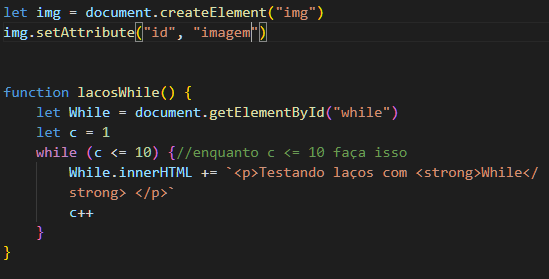
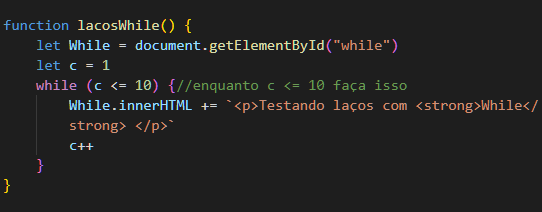
js

diff --git a/js-curso-em-video/javascript-inicial/praticando/estrutura_de_repetição/ex01while-for/while_for.html b/js-curso-em-video/javascript-inicial/praticando/estrutura_de_repetição/ex01while-for/while_for.html
@@ -9,61 +9,64 @@
 </head>
 <body>
     <header>
-        <h1>While, do while e for</h1>
+        <h1>while, do while e for</h1>
     </header>
     <section>
         <div id="while">
-            Laço de repetição com while
-            <input type="button" value="Iniciar" onclick="lacosWhile()">
-            <img src="imagem/while.PNG" alt="Imagem Laços While">
+            <p>
+                Laço de repetição com while <br>
+                <input type="text" name="txt1" id="txt1" placeholder="Dídite aqui o quer que repita"><br>
+                <input type="number" name="num1" id="num1"> <br><br> 
+                <input type="button" value="Iniciar" onclick="lacosWhile()">
+            </p>
         </div>
-        <div>
-            
-        </div>
+       
     </section>
     <br>
     <section>
         <div id="dowhile">
-            Laço de repetição com do while
-            <input type="button" value="Iniciar2" onclick="lacosDoWhile()">  
-            <div id="imagem">
-               <img src="" alt="Imagem do While">
-            </div>
+            <p>
+                Laço de repetição com do while
+                <input type="number" name="num2" id="num2">
+                <input type="button" value="Iniciar2" onclick="lacosDoWhile()">
+            </p>
         </div>
     </section>
     <br>
     <section>
         <div id="for">
-            Laço de repetição com for
-            <input type="button" value="Iniciar" onclick="lacosFor()">
+            <p>
+                Laço de repetição com for
+                <input type="number" name="num3" id="num3">
+                <input type="button" value="Iniciar" onclick="lacosFor()">
+            </p>
         </div>    
     </section>
     <br>
         <section>
-            <p>Escolha um laço de repetição e clique no botão iniciar corespondente</p>
+            Escolha um laço de repetição e clique no botão iniciar corespondente
         </section>
-        <section>
-            <div id="imagens">
-                <p>
-                    Código com <strong>while</strong> <br><br>
-                    <img src="imagem/while.PNG" alt="Laços com while">
+        <br>
+        <section >
+            <div id="res">
+                <h3>Veja o código aqui</h3>
+                <p >
+                    Código com <strong>while</strong> 
+                    <button onclick="imgWhile()">Ver código</button>  <br><br>
                 </p>
-                
-
+            </div>    
+            <div id="res2">
                 <p>
-                    Código com <strong>do while</strong> <br><br>
-                    <img src="imagem/do_while.PNG" alt="Laços com do while">
+                    Código com <strong>do while</strong>
+                    <button onclick="imgDoWhile()">Ver código </button> <br><br>
                 </p>
-                
+            </div>
+            <div id="res3">
                 <p>
                     Código com <strong>for</strong> 
-                    <br><br>
-                    <img src="imagem/for.PNG" alt="Laços com for">
+                    <button onclick="imgFor()">Ver código</button> <br><br>
                 </p>
-                
-
-                <button onclick="imagens()">Ver imagens</button>
-            </div>
+            </div>            
         </section>
     
     <footer>

diff --git a/js-curso-em-video/javascript-inicial/praticando/estrutura_de_repetição/ex01while-for/laços.js b/js-curso-em-video/javascript-inicial/praticando/estrutura_de_repetição/ex01while-for/laços.js
@@ -1,37 +1,64 @@
 
-let img = document.createElement("img")
-img.setAttribute("id", "foto")
+
 
 
 function lacosWhile() {
-    let img = document.createElement("img")
-    img.setAttribute("id", "foto")
-    img.setAttribute("src", "imagem/while.PNG")
-
     let While = document.getElementById("while")
+    let x1 = Number(document.getElementById("num1").value) 
+    let texto = document.getElementById("while")
     let c = 1
    
-    while (c <= 10) {//enquanto c <= 10 faça isso
-    img.setAttribute("src", "imagem/while.PNG")
-        While.innerHTML += `<p>Testando laços com <strong>While</strong>  </p>`
+    while (c <= x1) {//enquanto c <= 10 faça isso
+        While.innerHTML += `<p> ${texto}  <strong>While</strong>  </p>`
         c++        
     }   
 }
 
 function lacosDoWhile() {
     let doWhile = document.getElementById("dowhile")
+    let x2 = Number(document.getElementById("num2").value) 
     let c = 1
     do {//faça isso
         doWhile.innerHTML += `<p> Testando laços com <strong>do while</strong> `
         c++
-    } while(c <= 10)//enquanto c <= 10
+    } while(c <= x2)//enquanto c <= 10
       
 }
 function lacosFor() {
     let For = document.getElementById("for")
-    for (let c = 1; c <= 10; c++)
+    let x3 = Number(document.getElementById("num3").value) 
+
+    for (let c = 1; c <= x3; c++)
+  
     For.innerHTML += `<p>Testando laços com <strong>For</strong></p>`
 }
-function imagens() {
+
+function imgWhile() {
+    let res = document.getElementById("res")
+    let img = document.createElement("img")
     
+    // img.setAttribute("id", "foto")
+   
+    img.setAttribute("src",  "imagem/while.PNG")
+    res.appendChild(img)
+   
+
+}
+function imgDoWhile() {
+    let res = document.getElementById("res2")
+    let img = document.createElement("img")
+    
+    // img.setAttribute("id", "foto")
+
+    img.setAttribute("src", "imagem/do_while.PNG") 
+    res.appendChild(img)
+}
+function imgFor() {
+    let res = document.getElementById("res3")
+    let img = document.createElement("img")
+
+    // img.setAttribute("id", "foto")
+
+    img.setAttribute("src","imagem/for.PNG")    
+    res.appendChild(img)
 }

diff --git a/js-curso-em-video/javascript-inicial/praticando/estrutura_de_repetição/ex01while-for/laços.css b/js-curso-em-video/javascript-inicial/praticando/estrutura_de_repetição/ex01while-for/laços.css
@@ -15,9 +15,12 @@ section {
     padding: 15px;
     box-shadow: 4px 4px 12px rgba(0, 0, 0, 0.566);
 }
-section > img {
-    width: 300px;
-    padding: 15px;
+section  img {
+    max-width: 550px;
+    width: 100%;
+    padding: 10px;
+    margin: auto;
+   
 
 }
 footer {
